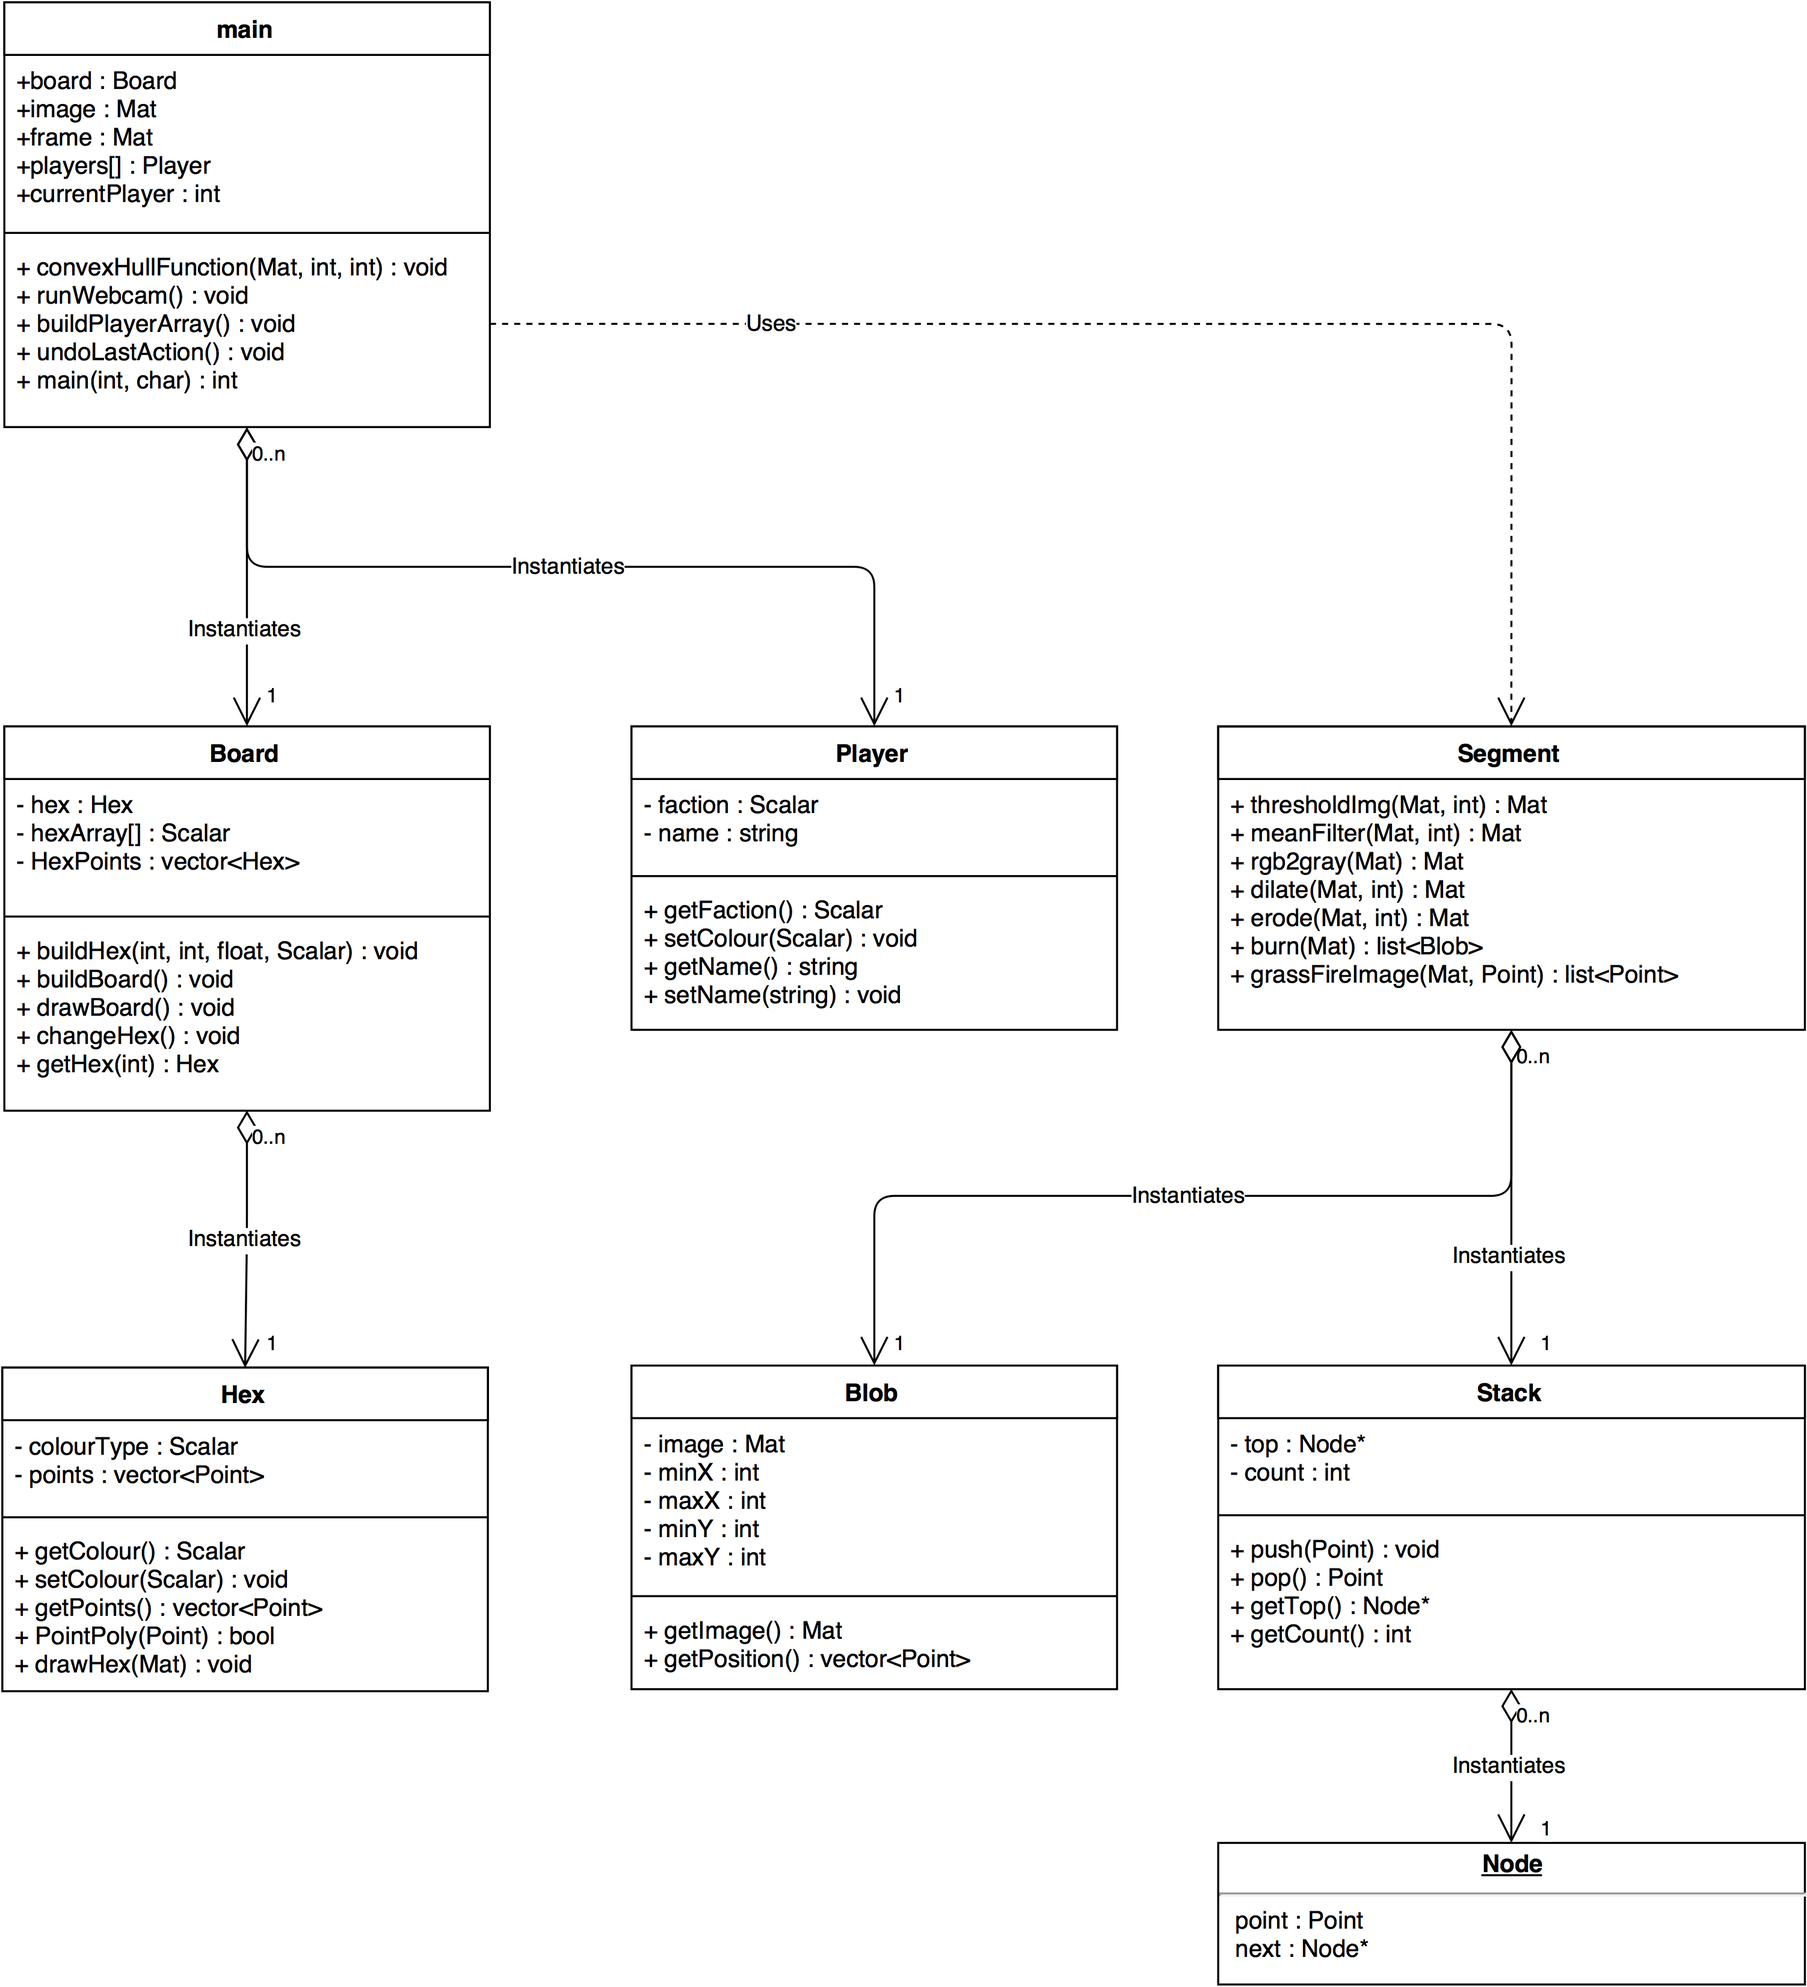
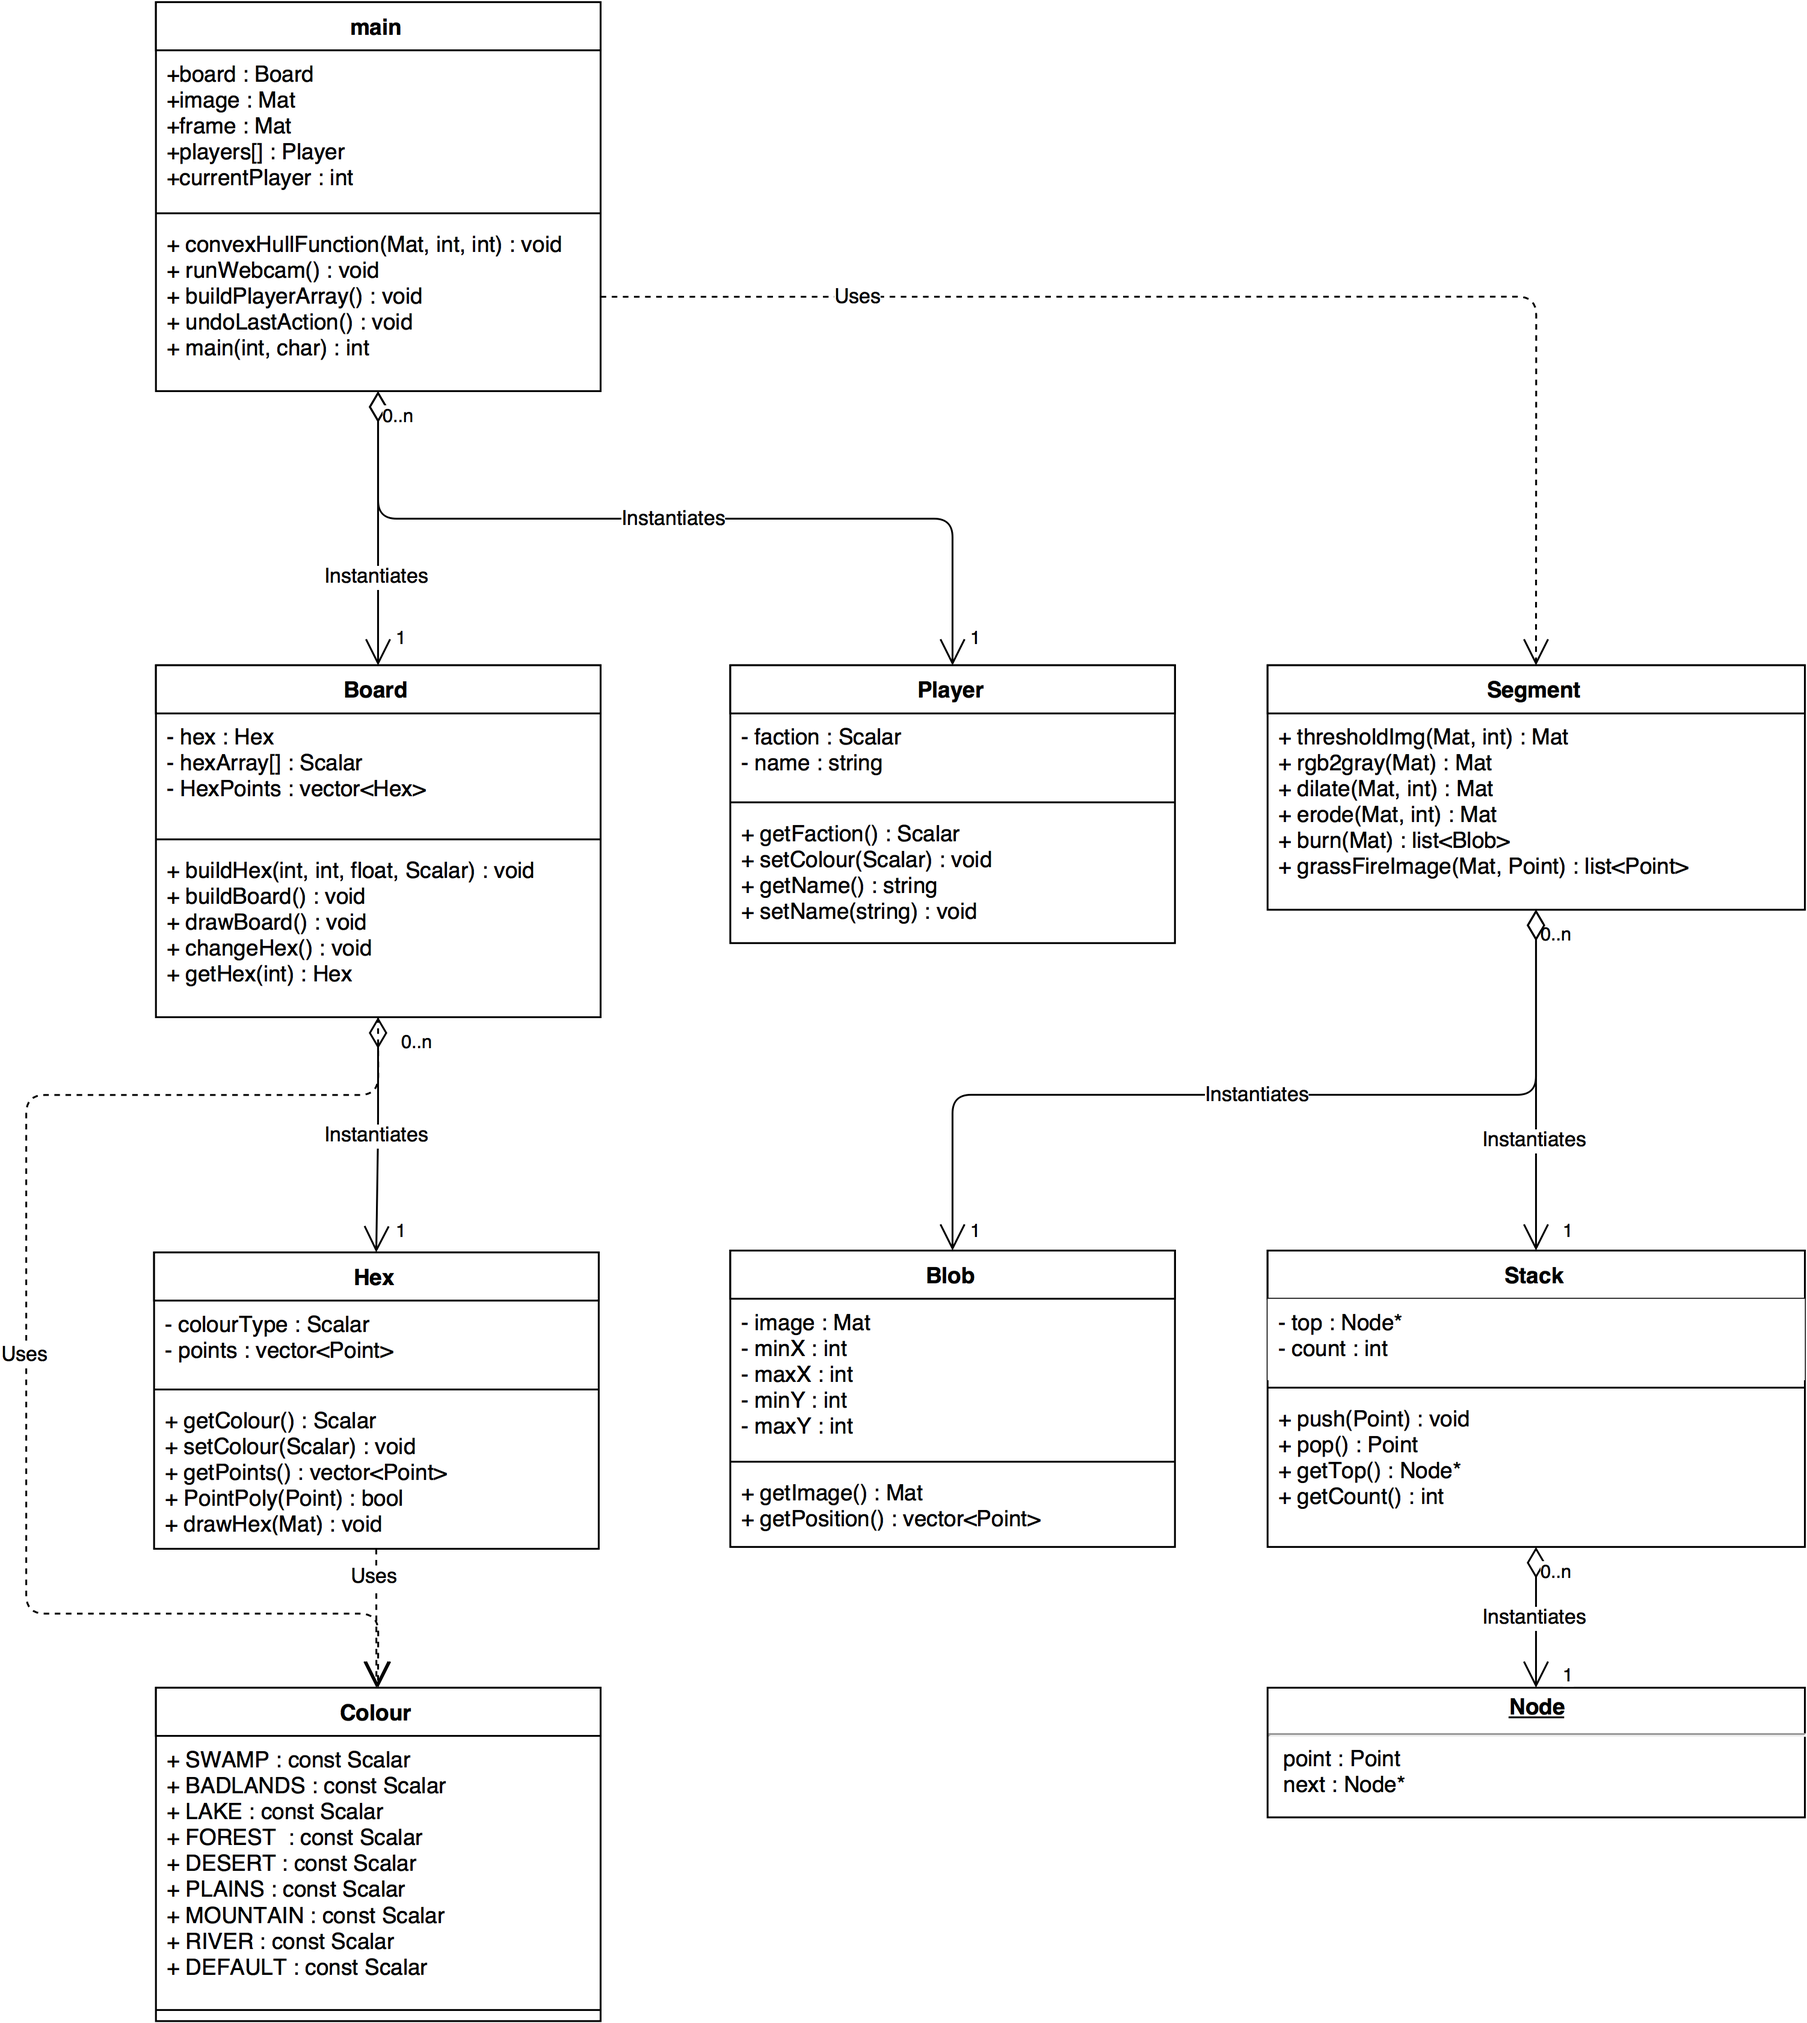
more code overview

diff --git a/sections/CodeOverview.tex b/sections/CodeOverview.tex
@@ -10,8 +10,9 @@ The structure of the implemented software can be seen in the class diagram in Fi
 	
 \end{figure}
 
+
 \section{Segment namespace}
-\texttt{Segment} is a namespace which includes all image processing algorithms used in the software which are not standard OpenCV methods.
+\texttt{Segment} is a namespace which includes all image processing algorithms that have been implemented in this software. These methods are never called in the software due to poor CPU efficiency. They are included in this chapter to explain the principles of the used image processing method, and could easily be used in the main software instead of the OpenCV methods, if CPU power was not limited.
 
 \subsection{Point-processing}
 There are three point-processing algorithms in this software; an RGB-to-Greyscale colour conversion algorithm, a normalization algorithm, and a thresholding algorithm. All of these make use of double-nested \texttt{for}-loops to apply their operations to each pixel as shown in Figure~\ref{fig:pointprocess}.
@@ -63,7 +64,7 @@ else
 \end{figure}
 
 \subsection{Neighbourhood processing}
-The neighbourhood processing methods used in this software are \texttt{erode}, \texttt{dilate} and \texttt{gaussianFilter}. These filters apply their kernels to each pixel through the process of convolution. That is to say, for each pixel they calculate a value for each pixel relative to the processed pixel based on the kernel. These results are then used for further calculations depending on the purpose of the filter.
+The neighbourhood processing methods used in this software are \texttt{erode} and \texttt{dilate} These filters apply their kernels to each pixel through the process of convolution. That is to say, for each pixel they calculate a value for each pixel relative to the processed pixel based on the kernel. These results are then used for further calculations depending on the purpose of the filter.
 
 The filters make use of a nested \texttt{for}-loop similar to the point-processing algorithms to go through each pixel. This loop can be seen in Figure~\ref{fig:neighbourhoodForLoop}. The main difference in this loop from the point-processing loop is, that this one ignores pixels at the edge of the image. This is to avoid \textit{out of bound} errors, since reading a pixel value outside an image causes OpenCV to throw an exception.
 
@@ -130,8 +131,10 @@ Temp = 0;
 \caption{The erotion algorithm.\label{fig:erodeAlgorithm}}
 \end{figure}
 
-\subsection{Grass-fire algorithm}
-For BLOB-extraction, two methods are used; \texttt{burn} and \texttt{grassFireImage}. \texttt{burn} performs two tasks; it calls \texttt{grassFireImage} when it finds a white pixel, and it builds an image from the list of pixels that are returned as a result. To find white pixels, a \texttt{for}-loop such as the one shown in Figure~{fig:pointprocess} is used. When a white pixel is found, \texttt{grassFireImage} is called. This method implements a sequential grass-fire algorithm to create a list of pixels from which a BLOB can be built. The method makes use of a linked list stack to keep track of the pixels that are currently being processed. As soon as a pixel is added to the stack, the pixel value is set to a non-white value to prevent pixels from being processed redundantly. This also ensures that \texttt{burn} does not call \texttt{grassFireImage} multiple times for the same blob. The algorithm is implemented for 4-neighbours connectivity. The code for this can be seen in Figure~{fig:grassFireIf}. 
+\subsection{BLOB extraction}
+For BLOB-extraction, two methods are used; \texttt{burn} and \texttt{grassFireImage}. \texttt{burn} performs two tasks; it calls \texttt{grassFireImage} when it finds a white pixel, and it builds an image from the list of pixels that are returned as a result. To find white pixels, a \texttt{for}-loop such as the one shown in Figure~{fig:pointprocess} is used. When a white pixel is found, \texttt{grassFireImage} is called. This method implements a sequential grass-fire algorithm to create a list of pixels from which a BLOB can be built. The method makes use of a linked list stack to keep track of the pixels that are currently being processed. As soon as a pixel is added to the stack, the pixel value is set to a non-white value to prevent pixels from being processed redundantly. This also ensures that \texttt{burn} does not call \texttt{grassFireImage} multiple times for the same blob. The algorithm is implemented for 4-neighbours connectivity. The code for this can be seen in Figure~\ref{fig:grassFireIf}. This code is contained within a \texttt{while}-loop, which runs for as long as elements are still present within the stack list. The nature of the if-else statements means that if any of the conditions are true, a new iteration of the loop will be started. If none of the pixels are white, the final block of code will be executed. Here the pixel is added to the \texttt{blopPoints} list and removed from the stack list. The next pixel in the stack list will then be processed. When the final pixel in the stack list has been removed, the \texttt{blobPoints} list is returned to the \texttt{burn} function, which contains the algorithm that builds an image from these points.
+
+The dimensions of the BLOB image is determined by calculating the difference between the maximum and minimum x- and y-values in the returned list. Then the program iterates through the list to determine the position of each white pixel in the image. This image, as well as its maximum and minimum values are then added to a \texttt{Blob} object which is pushed to a list of BLOBs, that the rest of the software can use.  
 
 \begin{figure}
 \begin{lstlisting}
@@ -148,5 +151,49 @@ else if (
 \caption{One of the if-statements in the grass-fire loop. This check is made for four of the pixel's neighbours. \label{fig:grassFireIf}}
 \end{figure}
 
+\section{Stack list}
+The stack list implementation makes use of a singly linked of a \texttt{Node} struct which contains a point, and a memory pointer to the next entry in the list, as well as a counter which records the amount of entries in the list. This class has four public methods. \texttt{push} adds a new \texttt{Node} to the top of the list, \texttt{pop} destroys the top-most \texttt{Node} in the list and returns its data, \texttt{getTop} simply returns the top-most \texttt{Node}, and \texttt{getCount} returns the \texttt{count} value.
+
+
 \section{Board class}
-The rendered board consists of a hexagonal grid placed on top of a pre-made image.  Initially, the \texttt{buildBoard()} method in the \texttt{Board} class is called. This method assigns a Scalar value to each position in an array each of which correspond to a hexagon on the board. This assignment of colours is hard-coded since the layout is static with no apparent pattern to dynamically generate the hexagons from. Then, the position of each of the hexagons is calculated.
+The \texttt{Board} class is responsible for determining the position of each hexagon on the board, handling the colour of each hexagon, and rendering the image. 
+
+\begin{figure}
+\begin{lstlisting}
+for (int i = 0; i < 12; i++){
+	x1 += 2 * h;
+	buildHex(x1, y, h, hexArray[i]);
+}
+\end{lstlisting}
+\caption{One of the \texttt{for}-loops used in the \texttt{buildHex} method. A loop has been implemented for each row on the board. \label{fig:buildHexForLoop}}
+\end{figure}
+
+The rendered board consists of a hexagonal grid placed on top of a pre-made image. Each hexagon is labeled from 0 to 111. Two methods are used to build these hexes. In the \texttt{buildBoard} method, the values defined in the \texttt{Colour} class are assigned to a Scalar array which are used to define the colour of each hexagon. A set of \texttt{for}-loops - one of which can be seen in Figure~\ref{fig:buildHexForLoop} - goes through each desired center position of the hexagons. For each of these positions, the \texttt{buildHex} method is called. The hexagons are built as instantiated \texttt{Hex} objects which take a list of six Points and a Scalar as arguments in their constructor. Finally, the method pushes the \texttt{Hex} object to a list. The code for this can be seen in Figure~\ref{fig:buildHexMethod}. Each Point in the \texttt{Hex} represents a corner in a hexagon which is drawn with the OpenCV \texttt{fillConvexPoly} method. This method is called in the \texttt{drawHex} method which is contained in the \texttt{Hex} class. After each hexagon has been built, the \texttt{drawBoard} method can be called continuously. This method simply calls the \texttt{drawHex} method for each \texttt{Hex}.
+
+\begin{figure}
+\begin{lstlisting}
+float r = (2.0 / 3.0) * (sqrt(3.0) * h);
+
+Point a(x, y);
+Point b(x + h, y + (0.5*r));
+Point c(x + h, y + (1.5*r));
+Point d(x, y + (2 * r));
+Point e(x - h, y + (1.5*r));
+Point f(x - h, y + (0.5*r));
+vector<Point> pointsVec = { a, b, c, d, e, f };
+
+Hex hex = Hex(colour, pointsVec);
+HexPoints.push_back(hex);
+\end{lstlisting}
+\caption{The contents of the \texttt{buildHex} method. \label{fig:buildHexMethod}}
+\end{figure}
+
+Finally the \texttt{Board} class contains a \texttt{changeHex} and \texttt{getHex} method. The former takes an \texttt{int} and a \texttt{Scalar} as arguments which are used to call the \texttt{setColour} method of a desired \texttt{Hex} in the list to set it to a desired colour. The latter method simply returns the \texttt{Hex} object at a desired position in the list of hexagons.
+
+\section{Main function}
+The main function is executed when the software is started. This function initially reads the board image from disk and loads it into a window. Then a \texttt{Board} object is instantiated and its \texttt{buildBoard} method is called. Then an array of \texttt{Player} objects is defined after which the main loop is started. In this loop, an image from the camera is received and processed with OpenCV methods. The image is converted to greyscale, a gaussian blur is applied, and the image is finally segmented using a simple, static threshold.
+
+\begin{figure}
+\begin{lstlisting}
+\end{lstlisting}
+\end{figure}
